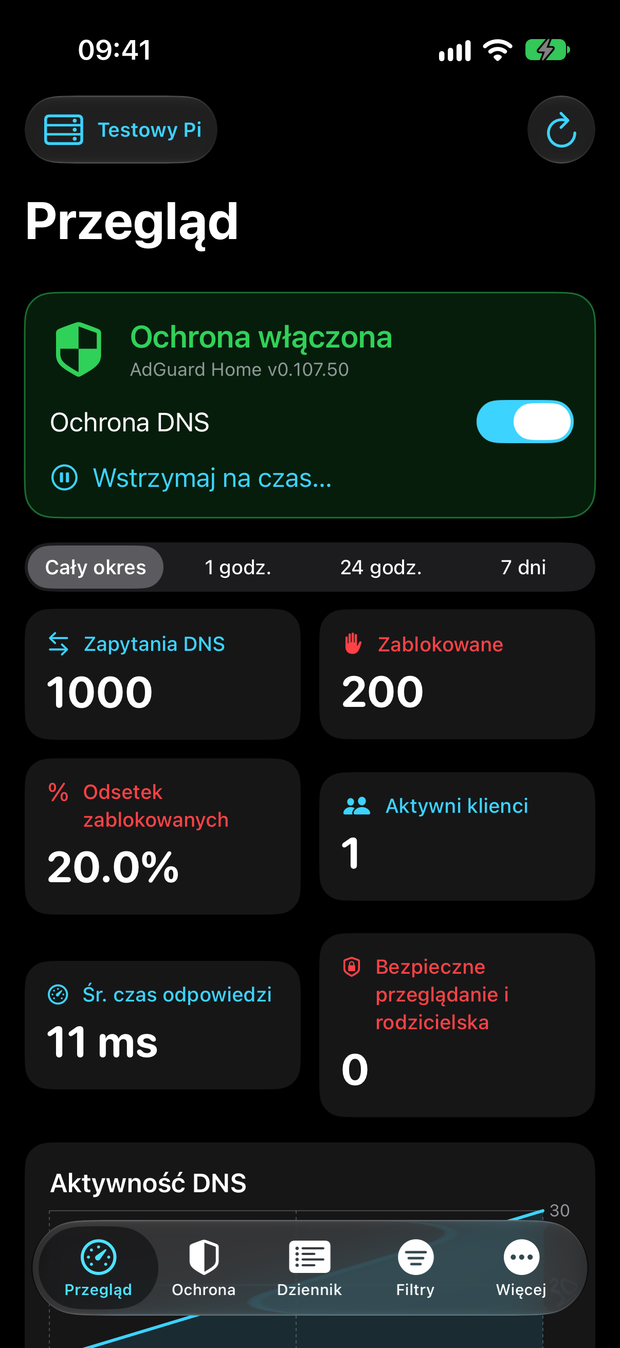
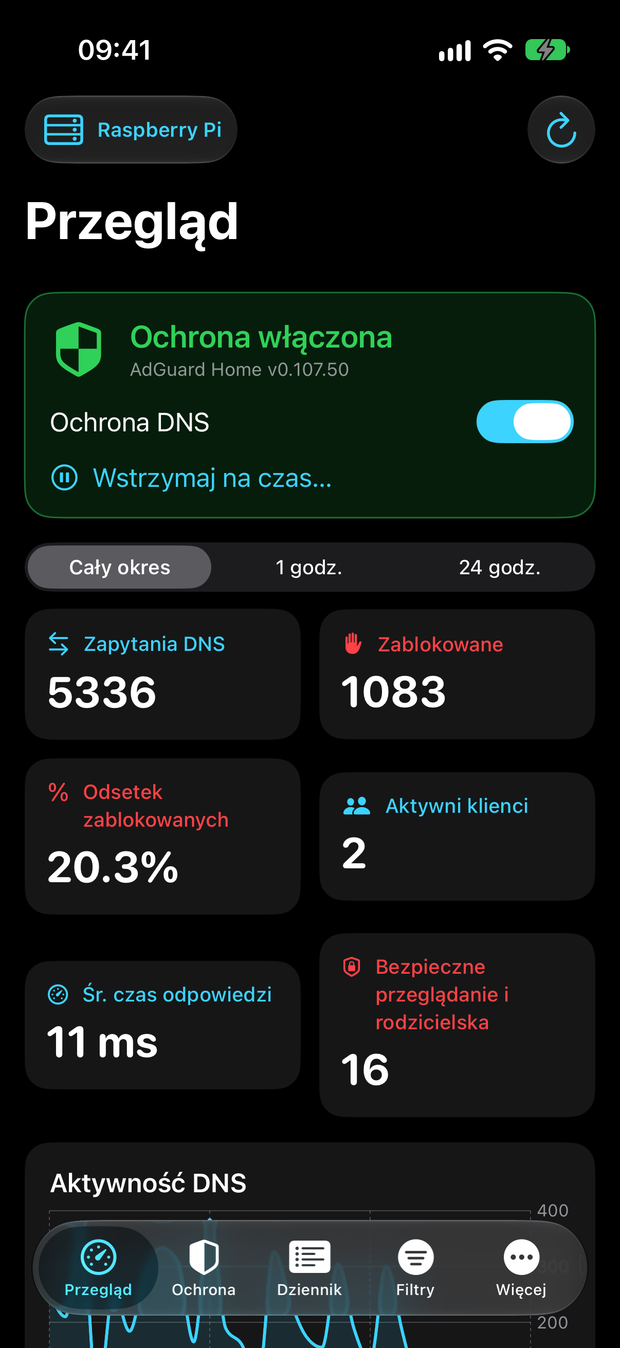
Fix screenshots and shorten the Rewrites tab label
- Retake all tab screenshots with complete data (no server errors)
- Shorten the rewrites segment label so it is not truncated

diff --git a/AdGuardControl/Views/FiltersView.swift b/AdGuardControl/Views/FiltersView.swift
@@ -2,7 +2,7 @@ import SwiftUI
 
 struct FiltersView: View {
     enum Tab: String, CaseIterable, Identifiable {
-        case blocklists = "Blokujące", allowlists = "Zezwalające", rules = "Reguły", rewrites = "Przepisywanie"
+        case blocklists = "Blokujące", allowlists = "Zezwalające", rules = "Reguły", rewrites = "Przepisy"
         var id: String { rawValue }
     }
 
